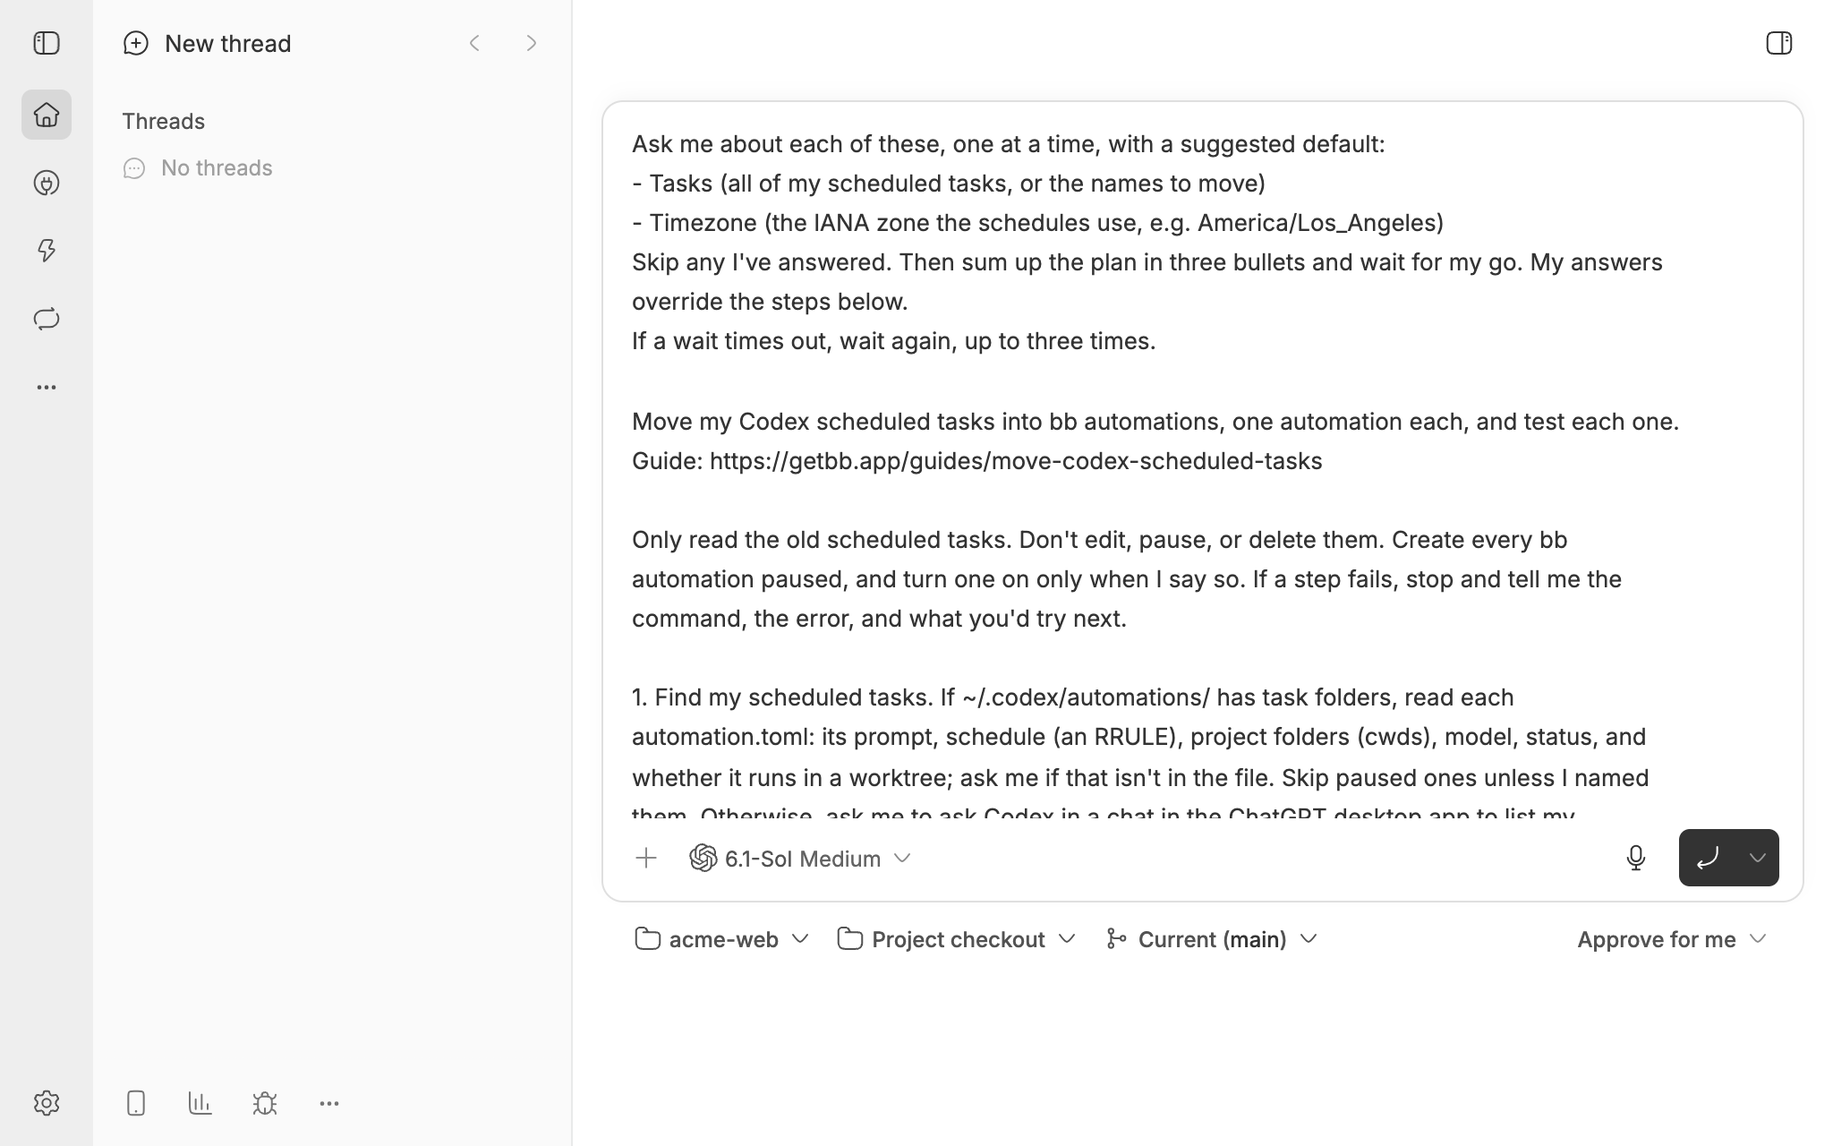
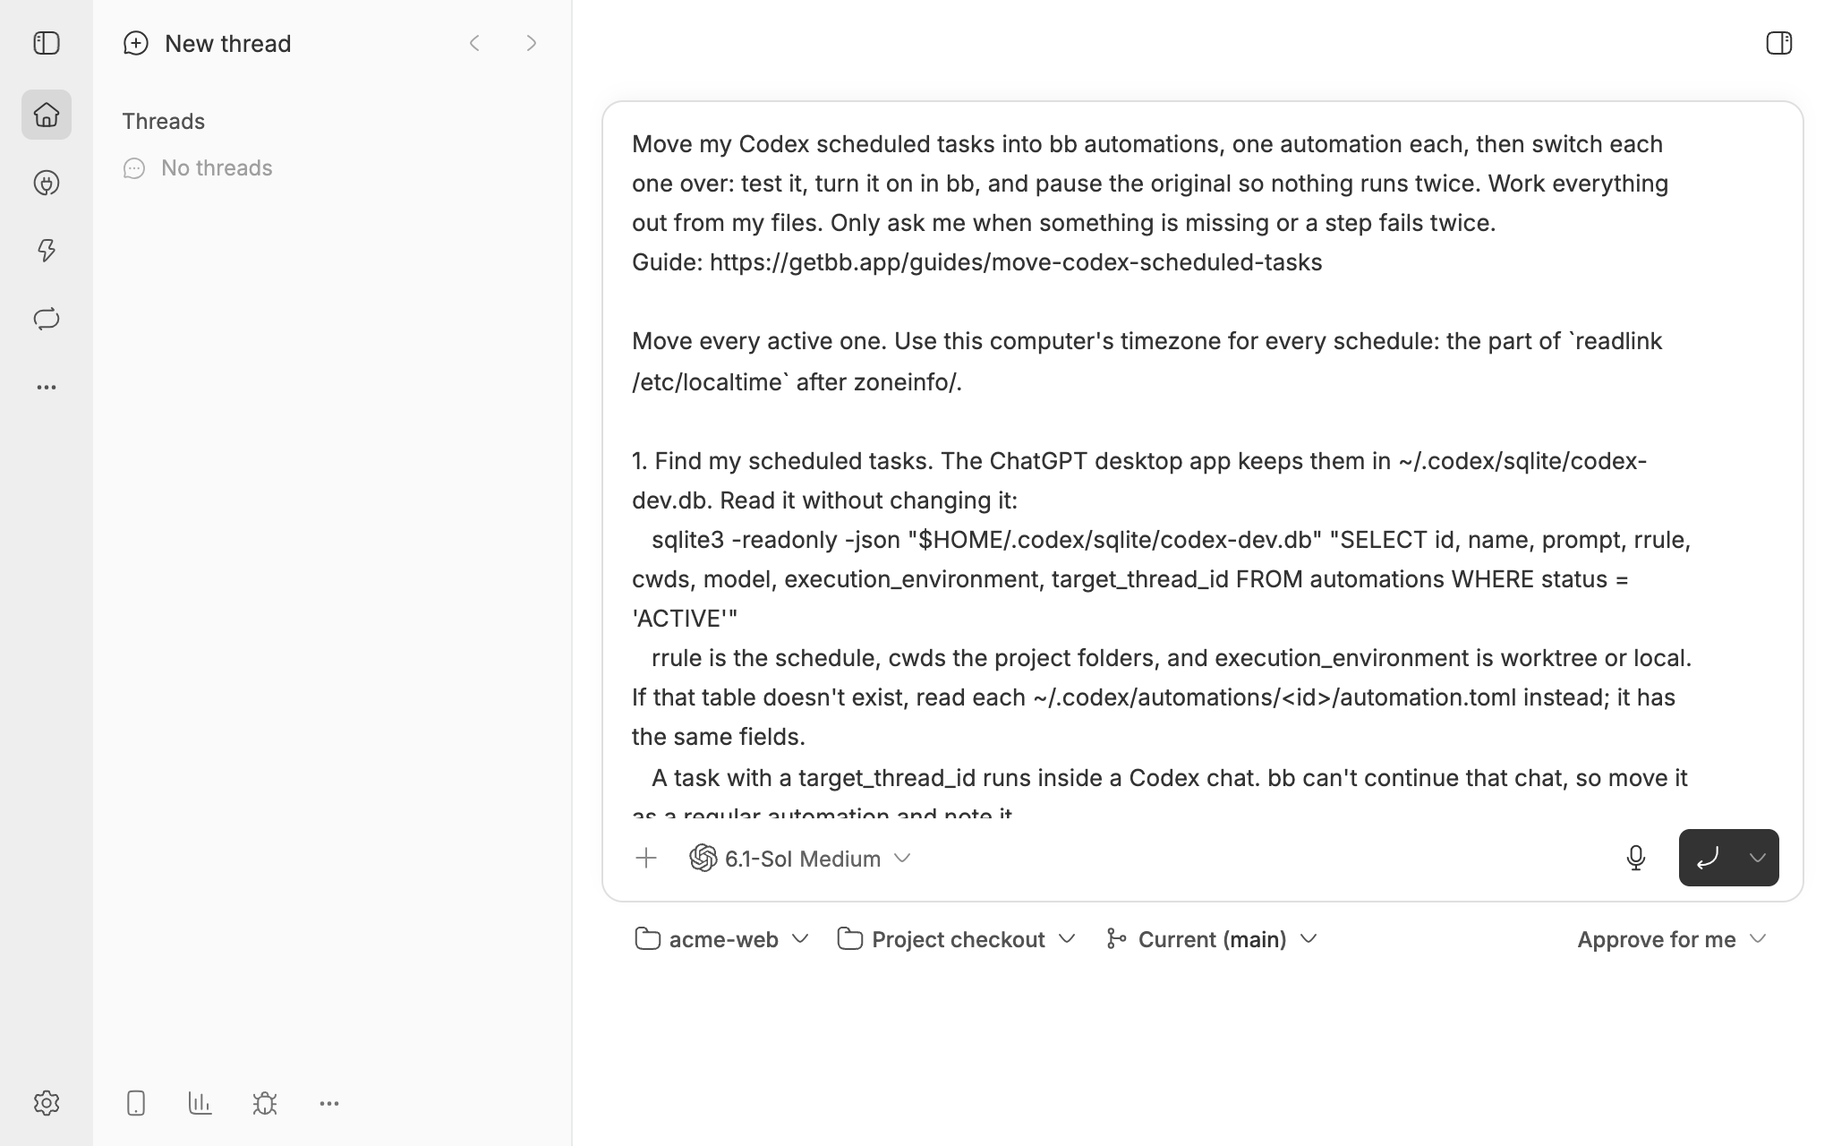
Have the agent read each tool's task store, switch every task over, and pause the originals itself

Changed region(s): [[0.3438, 0.0938, 0.9062, 0.7188]]

diff --git a/apps/web/src/guides/shared/move-tasks.tsx b/apps/web/src/guides/shared/move-tasks.tsx
@@ -2,7 +2,6 @@ import type { ReactNode } from "react";
 
 import { SwitchConcept } from "../concepts";
 import { CopyPromptButton, Substeps } from "../guide-blocks";
-import { withIntake } from "../prompt-intake";
 import type { Guide, GuideFaq, GuideMeta } from "../guide-types";
 import { AGENTS_FAQ, COST_FAQ, SLEEP_TROUBLESHOOTING } from "./faq";
 
@@ -10,48 +9,42 @@ export type MoveTasksTool = {
   id: string;
   slug: string;
   name: string;
+  app: string;
   modelsCommand: string;
   providerFlag: string;
   tasks: string;
   description: string;
   find: string;
-  findSteps: ReactNode;
-  pauseSteps: ReactNode;
+  pause: string;
+  checkOriginals: ReactNode;
   troubleshooting: GuideFaq[];
   faq: GuideFaq[];
 };
 
-const MODEL_STEP = `Check each task's model against \`<models>\`. If it isn't listed, ask me which model to use, and suggest the one marked isDefault: it's the model bb already runs for that agent.`;
-
 function movePrompt(tool: MoveTasksTool): string {
-  return withIntake(
-    [
-      { label: "Tasks", hint: `all of my ${tool.tasks}, or the names to move` },
-      {
-        label: "Timezone",
-        hint: "the IANA zone the schedules use, e.g. America/Los_Angeles",
-      },
-    ],
-    `Move my ${tool.name} ${tool.tasks} into bb automations, one automation each, and test each one.
+  return `Move my ${tool.name} ${tool.tasks} into bb automations, one automation each, then switch each one over: test it, turn it on in bb, and pause the original so nothing runs twice. Work everything out from my files. Only ask me when something is missing or a step fails twice.
 Guide: https://getbb.app/guides/${tool.slug}
 
-Only read the old ${tool.tasks}. Don't edit, pause, or delete them. Create every bb automation paused, and turn one on only when I say so. If a step fails, stop and tell me the command, the error, and what you'd try next.
+Move every active one. Use this computer's timezone for every schedule: the part of \`readlink /etc/localtime\` after zoneinfo/.
 
 ${tool.find}
-2. Match each one to a bb project. Run \`bb project list --include-personal --json\` and pick the project whose folder or repository matches. If none does, ask me whether to add it.
+2. Match each one to a bb project. Run \`bb project list --include-personal --json\` and pick the project whose source path matches its folder. If none does, add the folder with \`bb project create --name <folder name> --root <folder>\`.
    Check: every one has a project ID.
-3. Turn each schedule into a five-field cron in my Timezone. If a schedule has no exact cron, like every other week, pick the closest one and tell me.
-   ${MODEL_STEP.replace("<models>", tool.modelsCommand)}
+3. Turn each schedule into a five-field cron in my timezone. If there's no exact cron, like every other week, use the closest one and note it.
+   Check each model against \`${tool.modelsCommand}\`. If it isn't listed, use the one marked isDefault and note it.
 4. Create each automation paused. Read \`bb automation create --help\` first.
-   bb automation create --project <project-id> --name "<name>" --disabled --cron "<cron>" --timezone <Timezone> ${tool.providerFlag} --model <the model, or the one I picked> --permission-mode auto <where> --prompt "<the prompt, word for word>"
+   bb automation create --project <project-id> --name "<name>" --disabled --cron "<cron>" --timezone <timezone> ${tool.providerFlag} --model <model> --permission-mode auto <where> --prompt "<the prompt, word for word>"
    For <where>: if it ran in a worktree, use --new-environment worktree. If it ran in its folder, use --environment <that folder>, the project source path from \`bb project list\`.
-   If a prompt relies on something only ${tool.name} had, like a connector or an event trigger, tell me what it needs instead of guessing.
+   If a prompt relies on something only ${tool.name} had, like a connector or an event trigger, note what it needs.
    Check: \`bb automation list --project <project-id>\` shows each new automation, paused.
 5. Test every automation, even if an earlier test fails. Run \`bb automation run <id> --project <project-id>\`, then read its run with \`bb automation runs <id> --project <project-id>\` and the thread it started.
-   Check: the run finished and did what its prompt asks. If it failed because the model isn't supported on my account, switch it to the isDefault model with \`bb automation update <id> --project <project-id> --model <model>\`, tell me, and test it again. If it failed for another reason, leave it paused, note why, and go on to the next one.
+   Check: the run finished and did what its prompt asks. If it failed because the model isn't supported on my account, switch it to the isDefault model with \`bb automation update <id> --project <project-id> --model <model>\` and test it again. If it still fails, leave it paused in bb, leave the original running, note why, and go on to the next one.
+6. Switch over each one whose test passed.
+   Turn it on: \`bb automation resume <id> --project <project-id>\`.
+${tool.pause}
+   Check: a minute later, read the original again. If it's active again, note that I need to pause it in ${tool.app}.
 
-Reply with a table: name, its old schedule, its bb schedule, project, and test result. Then tell me to switch each one on in Automations and to pause the original in ${tool.name}, so nothing runs twice.`,
-  );
+Reply with a table: name, its old schedule, its bb schedule, project, test result, and whether it's switched over. Then list anything I still need to do.`;
 }
 
 export function moveTasksGuide(meta: GuideMeta, tool: MoveTasksTool): Guide {
@@ -66,17 +59,15 @@ export function moveTasksGuide(meta: GuideMeta, tool: MoveTasksTool): Guide {
       {
         id: "step-1",
         title: "Paste the prompt",
-        lead: `Your agent finds your ${tool.tasks} and asks for anything it can't read.`,
+        lead: `Your agent finds your ${tool.tasks}, moves each one, tests it, and switches it over.`,
         body: (
           <Substeps>
             <li>
-              Choose <strong>New thread</strong> and pick the project they work
-              on.
+              Choose <strong>New thread</strong> and pick any project.
             </li>
             <li>
               Paste the prompt from <CopyPromptButton /> and send it.
             </li>
-            {tool.findSteps}
           </Substeps>
         ),
         shot: {
@@ -89,43 +80,22 @@ export function moveTasksGuide(meta: GuideMeta, tool: MoveTasksTool): Guide {
       },
       {
         id: "step-2",
-        title: "Check the new automations",
-        lead: "Each one becomes a paused automation with the same prompt, schedule, and model.",
+        title: "Check the switch-over",
+        lead: `Each one that passed its test is on in bb and paused in ${tool.name}.`,
         body: (
           <Substeps>
             <li>
               Choose <strong>Automations</strong> in the sidebar.
             </li>
             <li>
-              Check each one's project and schedule. To change a prompt, open it
-              and choose <strong>Edit prompt</strong>.
+              Open one to read its test run under <strong>Runs</strong>.
             </li>
+            {tool.checkOriginals}
           </Substeps>
         ),
         shot: {
-          src: "/guides/run-an-agent-on-a-schedule/window-list.webp",
-          alt: "The Automations page in bb, listing five automations with their project, schedule, next run, and an on/off switch",
-          width: 2048,
-          height: 1280,
-        },
-        options: [],
-      },
-      {
-        id: "step-3",
-        title: "Switch over",
-        lead: `Turn each one on in bb, then pause the original in ${tool.name} so it doesn't run twice.`,
-        body: (
-          <Substeps>
-            <li>
-              Open an automation, read its test run under <strong>Runs</strong>,
-              and switch it on.
-            </li>
-            {tool.pauseSteps}
-          </Substeps>
-        ),
-        shot: {
-          src: `/guides/${tool.slug}/window-detail-run.webp`,
-          alt: `A paused Daily dependency check automation in bb running ${tool.name}, with its schedule, prompt, model, and a finished test run under Runs`,
+          src: `/guides/${tool.slug}/window-detail-on.webp`,
+          alt: `A Daily dependency check automation in bb running ${tool.name}, switched on, with its schedule, prompt, model, and a finished test run under Runs`,
           width: 2048,
           height: 1280,
         },
@@ -137,20 +107,24 @@ export function moveTasksGuide(meta: GuideMeta, tool: MoveTasksTool): Guide {
       {
         question: "A test run failed",
         answer: (
-          <ol>
-            <li>
-              Open the automation, then the run under <strong>Runs</strong>, and
-              read where it stopped.
-            </li>
-            <li>
-              If the model isn't available to your account, pick another model
-              and choose <strong>Run now</strong> again.
-            </li>
-            <li>
-              If the prompt relied on a connector, add that service to the agent
-              on your computer and run it again.
-            </li>
-          </ol>
+          <>
+            <p>
+              The automation stays paused in bb and the original keeps running.
+            </p>
+            <ol>
+              <li>
+                Open the automation, then the run under <strong>Runs</strong>,
+                and read where it stopped.
+              </li>
+              <li>
+                If the prompt relied on a connector, add that service to the
+                agent on your computer and choose <strong>Run now</strong>.
+              </li>
+              <li>
+                Once it passes, ask your agent to switch it over.
+              </li>
+            </ol>
+          </>
         ),
       },
       SLEEP_TROUBLESHOOTING,
@@ -160,9 +134,21 @@ export function moveTasksGuide(meta: GuideMeta, tool: MoveTasksTool): Guide {
         question: "What comes over?",
         answer: (
           <p>
-            The prompt, word for word, the schedule, the project, and the model.
-            If your account can't use that model in bb, your agent asks which
-            one to use. Past runs stay in {tool.name}.
+            The prompt, word for word, the schedule, the project, the model, and
+            where it runs. If your account can't use that model in bb, your
+            agent uses bb's default for that agent and tells you. Past runs stay
+            in {tool.name}.
+          </p>
+        ),
+      },
+      {
+        question: `What does my agent change in ${tool.name}?`,
+        answer: (
+          <p>
+            Only one thing: it pauses each original after its bb automation
+            passes a test, so nothing runs twice. It backs up the file first
+            and leaves the prompt and schedule alone, so you can switch an
+            original back on in {tool.app}.
           </p>
         ),
       },
@@ -179,67 +165,55 @@ export function moveTasksGuide(meta: GuideMeta, tool: MoveTasksTool): Guide {
 
 const SCHEDULE_GUIDE = "/guides/run-an-agent-on-a-schedule";
 
+const CLAUDE_TASKS_FILE =
+  "~/Library/Application Support/Claude/claude-code-sessions/*/*/scheduled-tasks.json";
+const CODEX_DB = "~/.codex/sqlite/codex-dev.db";
+const CODEX_DB_SHELL = "$HOME/.codex/sqlite/codex-dev.db";
+
 export const MOVE_TASKS_TOOLS = {
   claude: {
     id: "claude",
     slug: "move-claude-code-routines",
     name: "Claude Code",
+    app: "the Claude Code desktop app",
     modelsCommand: "bb provider models claude-code --json",
     providerFlag: "--provider claude-code",
     tasks: "routines",
     description:
-      "Bring your Claude Code routines into bb automations, local and cloud. Your agent recreates each one paused with the same prompt and schedule, and tests it before you switch over.",
+      "Turn your Claude Code routines into bb automations. bb recreates each one and tests them before you switch over.",
     find: `1. Find my routines.
-   - Local routines are Desktop scheduled tasks. Each is ~/.claude/scheduled-tasks/<name>/SKILL.md, with the prompt as the body. Its schedule, folder, model, and whether it runs in a worktree aren't in the file, so ask me for them before you plan; don't guess. I can read them on Routines in the Claude Code desktop app.
-   - Cloud routines live on my claude.ai account, not this computer. Ask me to run /schedule list in Claude Code, or open claude.ai/code/routines, and paste each routine's prompt, schedule, repositories, and model. Each cloud run gets a fresh clone, so use a worktree for these.
+   - Local routines: read ${CLAUDE_TASKS_FILE}. Each entry in scheduledTasks has its schedule (cronExpression), enabled, model, folder (cwd, or the first of userSelectedFolders), useWorktree, and filePath: the SKILL.md under ~/.claude/scheduled-tasks/ whose body is the prompt. Skip entries with enabled false, and one-time ones with fireAt instead of cronExpression.
+   - Cloud routines live on my claude.ai account. List them with Claude Code's /schedule list, using my claude.ai login: \`claude -p "/schedule list"\`. Get each one's prompt, schedule, repository, and model. Each cloud run gets a fresh clone, so use a worktree for these. If you can't reach them, skip them and say so.
    - Skip /loop tasks. They end with their session.
    Check: list each routine's name, local or cloud, schedule in plain words, folder or repository, worktree or not, and model.`,
-    findSteps: (
-      <>
-        <li>
-          For local routines, it asks for each one's schedule, folder, and
-          whether it runs in a worktree. Find them on{" "}
-          <strong>Routines</strong> in the Claude Code desktop app.
-        </li>
-        <li>
-          For cloud routines, run <code>/schedule list</code> in Claude Code, or
-          open claude.ai/code/routines, and paste each routine's prompt and
-          schedule.
-        </li>
-      </>
-    ),
-    pauseSteps: (
-      <>
-        <li>
-          For a local routine, open it on <strong>Routines</strong> in the
-          Claude Code desktop app and set it to <strong>Paused</strong>.
-        </li>
-        <li>
-          For a cloud routine, turn off the switch at the top of its page at
-          claude.ai/code/routines.
-        </li>
-      </>
+    pause: `   Pause the original. For a local routine, copy its scheduled-tasks.json to scheduled-tasks.before-bb.json once, then set only that entry's "enabled" to false with a JSON-aware edit, and read the file back. For a cloud routine, turn it off with /schedule update in \`claude -p\`.`,
+    checkOriginals: (
+      <li>
+        In the Claude Code desktop app, open <strong>Routines</strong>. Each
+        original that moved shows <strong>Paused</strong>.
+      </li>
     ),
     troubleshooting: [
       {
-        question: "A local routine came over without its schedule",
+        question: "My agent couldn't reach my cloud routines",
         answer: (
           <p>
-            Claude Code keeps only a local routine's prompt in its{" "}
-            <code>SKILL.md</code> file. Open <strong>Routines</strong> in the
-            Claude Code desktop app, read its schedule and folder, and tell your
-            agent.
+            Cloud routines live on your claude.ai account, and your agent reads
+            them with Claude Code's <code>/schedule</code> command. Sign in to
+            Claude Code with your claude.ai account, then ask your agent to try
+            again. Or run <code>/schedule list</code> yourself and paste each
+            one into the thread.
           </p>
         ),
       },
       {
-        question: "My agent can't see my cloud routines",
+        question: "An original is still running",
         answer: (
           <p>
-            Cloud routines live on your claude.ai account, so your agent can't
-            read them from your computer. Run <code>/schedule list</code> in
-            Claude Code, or open claude.ai/code/routines, and paste each one
-            into the thread.
+            The Claude Code desktop app can put a routine back if it was open
+            while your agent paused it. Open it on <strong>Routines</strong>{" "}
+            and set it to <strong>Paused</strong>. For a cloud routine, turn off
+            the switch on its page at claude.ai/code/routines.
           </p>
         ),
       },
@@ -302,26 +276,22 @@ export const MOVE_TASKS_TOOLS = {
     id: "codex-app",
     slug: "move-codex-scheduled-tasks",
     name: "Codex",
+    app: "the ChatGPT desktop app",
     modelsCommand: "bb provider models codex --json",
     providerFlag: "--provider codex",
     tasks: "scheduled tasks",
     description:
-      "Bring your Codex scheduled tasks into bb automations. Your agent recreates each one paused with the same prompt and schedule, and tests it before you switch over.",
-    find: `1. Find my scheduled tasks. If ~/.codex/automations/ has task folders, read each automation.toml: its prompt, schedule (an RRULE), project folders (cwds), model, status, and whether it runs in a worktree; ask me if that isn't in the file. Skip paused ones unless I named them. Otherwise, ask me to ask Codex in a chat in the ChatGPT desktop app to list my scheduled tasks with each one's prompt, schedule, project, model, and whether it runs in the local project or a worktree, and paste the list here.
-   A scheduled task inside a chat returns to that chat's context each run. For each of those, ask whether to have bb re-prompt one thread instead: use --target-thread <thread-id> in step 4 in place of <where>.
-   Check: list each task's name, schedule in plain words, project, local project or worktree, and model.`,
-    findSteps: (
+      "Turn your Codex scheduled tasks into bb automations. bb recreates each one and tests them before you switch over.",
+    find: `1. Find my scheduled tasks. The ChatGPT desktop app keeps them in ${CODEX_DB}. Read it without changing it:
+   sqlite3 -readonly -json "${CODEX_DB_SHELL}" "SELECT id, name, prompt, rrule, cwds, model, execution_environment, target_thread_id FROM automations WHERE status = 'ACTIVE'"
+   rrule is the schedule, cwds the project folders, and execution_environment is worktree or local. If that table doesn't exist, read each ~/.codex/automations/<id>/automation.toml instead; it has the same fields.
+   A task with a target_thread_id runs inside a Codex chat. bb can't continue that chat, so move it as a regular automation and note it.
+   Check: list each task's name, schedule in plain words, project folder, local or worktree, and model.`,
+    pause: `   Pause the original: back up the database once with \`sqlite3 "${CODEX_DB_SHELL}" ".backup ${CODEX_DB_SHELL.replace(".db", ".before-bb.db")}"\`, then run \`sqlite3 "${CODEX_DB_SHELL}" "UPDATE automations SET status = 'PAUSED' WHERE id = '<task id>'"\`, and read its status back.`,
+    checkOriginals: (
       <li>
-        If it asks for your scheduled tasks, ask Codex in a chat in the ChatGPT
-        desktop app to list them with each one's prompt, schedule, project,
-        model, and whether it runs in a worktree, and paste the list into the bb
-        thread.
-      </li>
-    ),
-    pauseSteps: (
-      <li>
-        In the ChatGPT desktop app, open <strong>Scheduled</strong> and pause
-        the original, or ask Codex in a chat to pause it.
+        In the ChatGPT desktop app, open <strong>Scheduled</strong>. Each
+        original that moved is paused.
       </li>
     ),
     troubleshooting: [
@@ -329,9 +299,19 @@ export const MOVE_TASKS_TOOLS = {
         question: "My agent didn't find my scheduled tasks",
         answer: (
           <p>
-            Ask Codex in a chat in the ChatGPT desktop app to list your
-            scheduled tasks with each one's prompt, schedule, project, and
-            model, then paste the list into the bb thread.
+            It reads them on the computer where you use the ChatGPT desktop app.
+            Run the prompt in a bb thread on that computer. Or ask Codex in a
+            chat to list your scheduled tasks with each one's prompt, schedule,
+            project, and model, and paste the list into the bb thread.
+          </p>
+        ),
+      },
+      {
+        question: "An original is still running",
+        answer: (
+          <p>
+            In the ChatGPT desktop app, open <strong>Scheduled</strong> and
+            pause it, or ask Codex in a chat to pause it.
           </p>
         ),
       },
@@ -361,9 +341,9 @@ export const MOVE_TASKS_TOOLS = {
         question: "What about scheduled tasks inside a chat?",
         answer: (
           <p>
-            A bb automation can re-prompt the same thread each run, so it keeps
-            that thread's context. Your agent asks which tasks should work that
-            way.
+            bb can't continue a ChatGPT chat, so your agent moves each one as a
+            regular automation. To keep context between runs, ask your agent to
+            point it at one bb thread instead.
           </p>
         ),
       },
